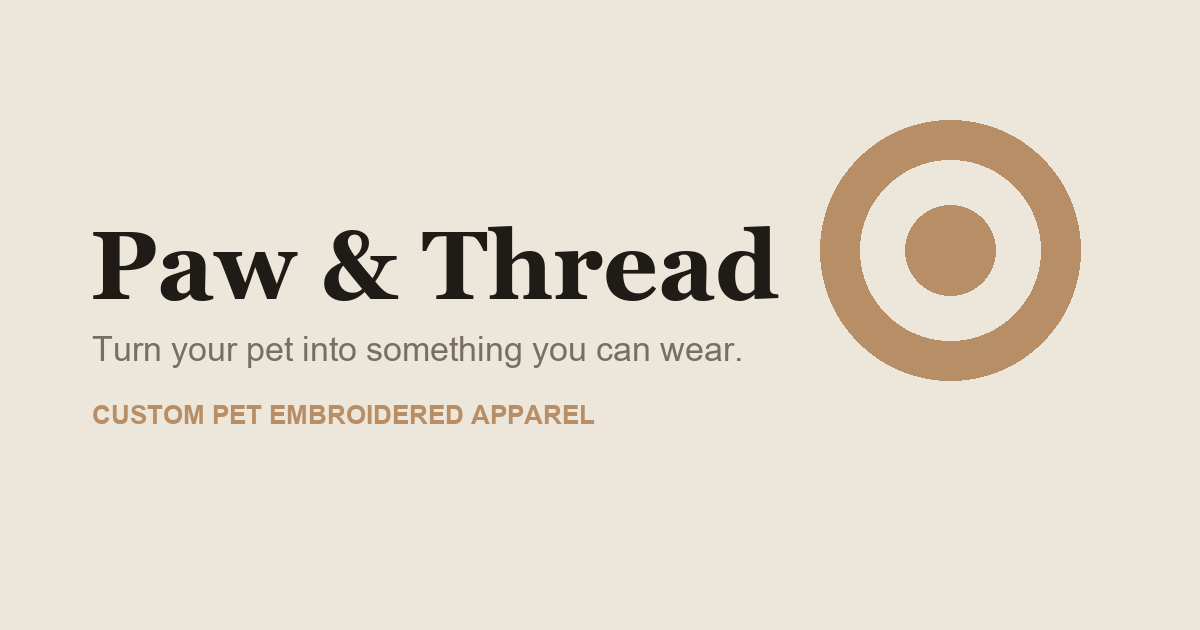
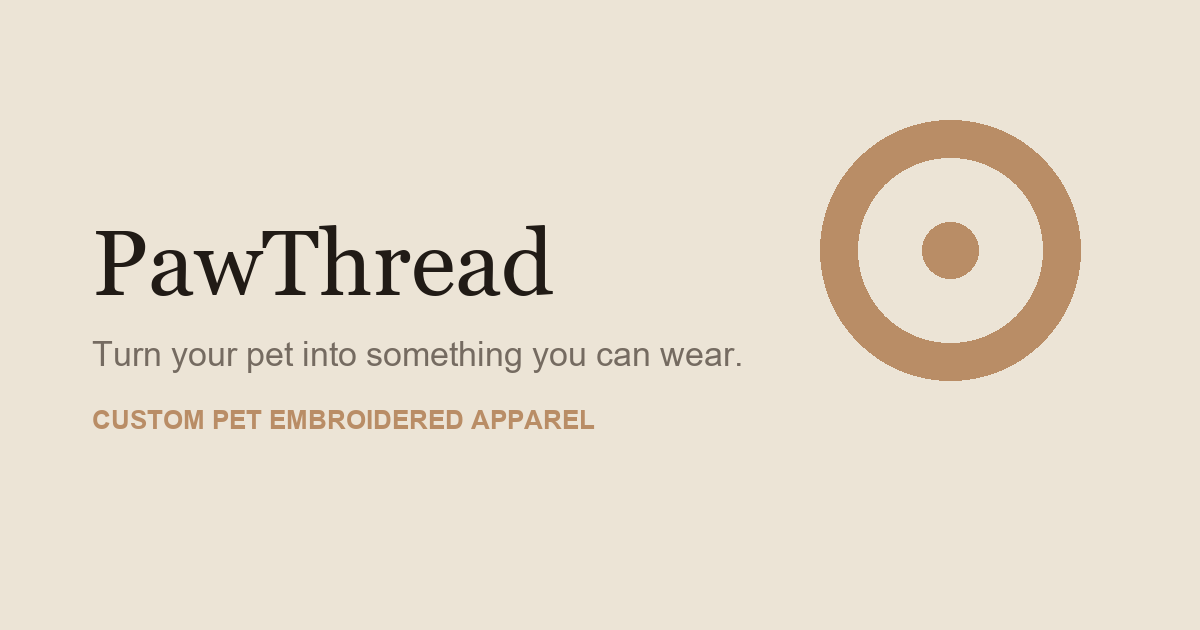
Rename visible brand to PawThread

diff --git a/app/layout.tsx b/app/layout.tsx
@@ -28,8 +28,8 @@ export const metadata: Metadata = {
   ],
   alternates: { canonical: "/" },
   icons: {
-    icon: "/brand/pawthred-mark.png",
-    apple: "/brand/pawthred-mark.png",
+    icon: "/brand/pawthread-mark.png",
+    apple: "/brand/pawthread-mark.png",
   },
   openGraph: {
     title: `${siteConfig.brandName} — Turn your pet into something you can wear`,
@@ -38,14 +38,14 @@ export const metadata: Metadata = {
     url: siteConfig.siteUrl,
     siteName: siteConfig.brandName,
     images: [
-      { url: "/brand/pawthred-wordmark.png", width: 2048, height: 768, alt: siteConfig.brandName },
+      { url: "/og.png", width: 1200, height: 630, alt: siteConfig.brandName },
     ],
   },
   twitter: {
     card: "summary_large_image",
     title: `${siteConfig.brandName} — Turn your pet into something you can wear`,
     description: siteConfig.description,
-    images: ["/brand/pawthred-wordmark.png"],
+    images: ["/og.png"],
   },
 };
 

diff --git a/components/Footer.tsx b/components/Footer.tsx
@@ -46,16 +46,13 @@ export function Footer() {
           <div className="flex items-center gap-3">
             {/* eslint-disable-next-line @next/next/no-img-element */}
             <img
-              src="/brand/pawthred-mark.png"
+              src="/brand/pawthread-mark.png"
               alt=""
               className="h-11 w-11 object-contain"
             />
-            {/* eslint-disable-next-line @next/next/no-img-element */}
-            <img
-              src="/brand/pawthred-wordmark.png"
-              alt={siteConfig.brandName}
-              className="h-9 w-auto object-contain"
-            />
+            <span className="font-display text-2xl font-semibold leading-none text-ink">
+              {siteConfig.brandName}
+            </span>
           </div>
           <p className="mt-3 max-w-xs text-sm text-muted">
             <Editable eid="footer.tagline" fallback={siteConfig.tagline} />

diff --git a/lib/config/site.config.ts b/lib/config/site.config.ts
@@ -4,10 +4,10 @@ export const siteConfig = {
   // 站点正式域名（上线后改成你的真实域名；也支持 NEXT_PUBLIC_SITE_URL 覆盖）
   siteUrl: process.env.NEXT_PUBLIC_SITE_URL || "https://pawandthread.com",
   // 临时品牌占位，可经环境变量覆盖
-  brandName: process.env.NEXT_PUBLIC_SITE_NAME || "Pawthred",
+  brandName: process.env.NEXT_PUBLIC_SITE_NAME || "PawThread",
   tagline: "Turn your pet into something you can wear.",
   description:
-    "Pawthred turns your favorite pet photo into a custom embroidered tee, hoodie or socks. Premium stitching, made to order, shipped from the USA.",
+    "PawThread turns your favorite pet photo into a custom embroidered tee, hoodie or socks. Premium stitching, made to order, shipped from the USA.",
   announcement: "Buy 2+ apparel, save $5 each · Free shipping on orders $100+",
   freeShippingThreshold: 100,
   shippingFee: 6,

diff --git a/components/Header.tsx b/components/Header.tsx
@@ -68,12 +68,9 @@ export function Header() {
         </button>
 
         <Link href="/" className="flex items-center" aria-label={siteConfig.brandName}>
-          {/* eslint-disable-next-line @next/next/no-img-element */}
-          <img
-            src="/brand/pawthred-wordmark.png"
-            alt={siteConfig.brandName}
-            className="h-10 w-auto object-contain"
-          />
+          <span className="font-display text-3xl font-semibold leading-none text-ink">
+            {siteConfig.brandName}
+          </span>
         </Link>
 
         <nav className="hidden md:flex items-center gap-7 text-[13.5px] font-medium text-charcoal">

diff --git a/app/page.tsx b/app/page.tsx
@@ -16,7 +16,7 @@ import { faqs } from "@/lib/data/content";
 export const metadata: Metadata = {
   title: "Custom Pet Embroidered Apparel — Turn Your Pet Into Something You Can Wear",
   description:
-    "Paw & Thread turns your favorite pet photo into a custom embroidered tee, hoodie or socks. Premium stitching, made to order, shipped from the USA.",
+    "PawThread turns your favorite pet photo into a custom embroidered tee, hoodie or socks. Premium stitching, made to order, shipped from the USA.",
   alternates: { canonical: "/" },
 };
 
